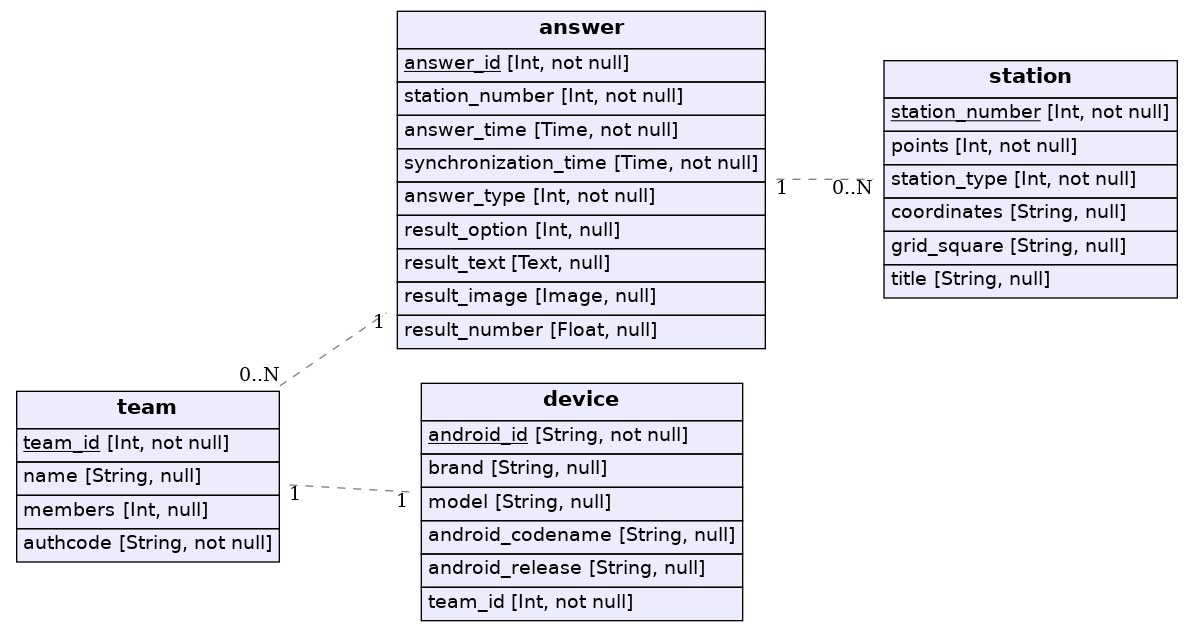
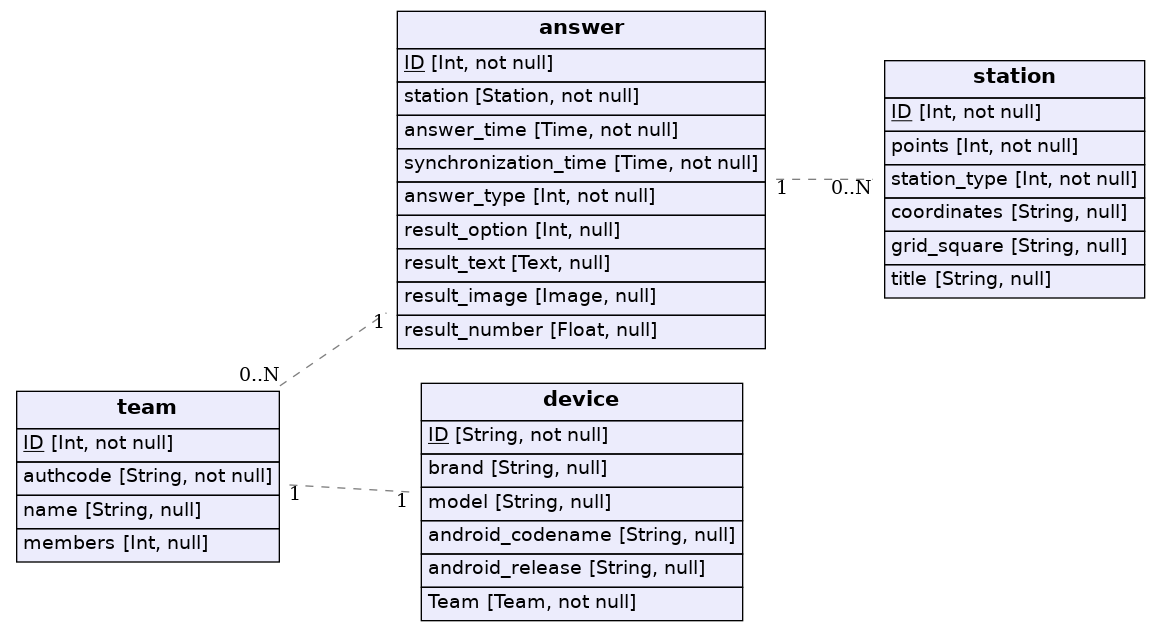
re-check that the erd matches the reality

diff --git a/server/graph/mutations.resolvers.go b/server/graph/mutations.resolvers.go
@@ -28,7 +28,7 @@ func (r *mutationResolver) CreateAnswer(ctx context.Context, stationNumber int, 
 	findStation := r.DB.First(station, stationNumber)
 
 	if findStation.Error != nil {
-		log.Print("Error while creating a station: ", findStation.Error)
+		log.Print("Error while finding a matching station for answer: ", findStation.Error)
 		return nil, findStation.Error
 	}
 	answer := model.Answer{
@@ -59,7 +59,7 @@ func (r *mutationResolver) CreateDevice(ctx context.Context, androidID string, t
 	}
 
 	device := model.Device{
-		AndroidID:       androidID,
+		ID:              androidID,
 		Team:            team,
 		Brand:           brand,
 		PhoneModel:      phoneModel,

diff --git a/server/graph/model/models_gen.go b/server/graph/model/models_gen.go
@@ -17,7 +17,7 @@ type Answer struct {
 }
 
 type Device struct {
-	AndroidID       string  `json:"android_id"`
+	ID              string  `json:"ID"`
 	Team            *Team   `json:"team"`
 	Brand           *string `json:"brand"`
 	PhoneModel      *string `json:"phone_model"`
@@ -36,7 +36,7 @@ type Station struct {
 
 type Team struct {
 	ID       int     `json:"ID"`
-	Members  *int    `json:"members"`
 	Authcode string  `json:"authcode"`
 	Name     *string `json:"name"`
+	Members  *int    `json:"members"`
 }
